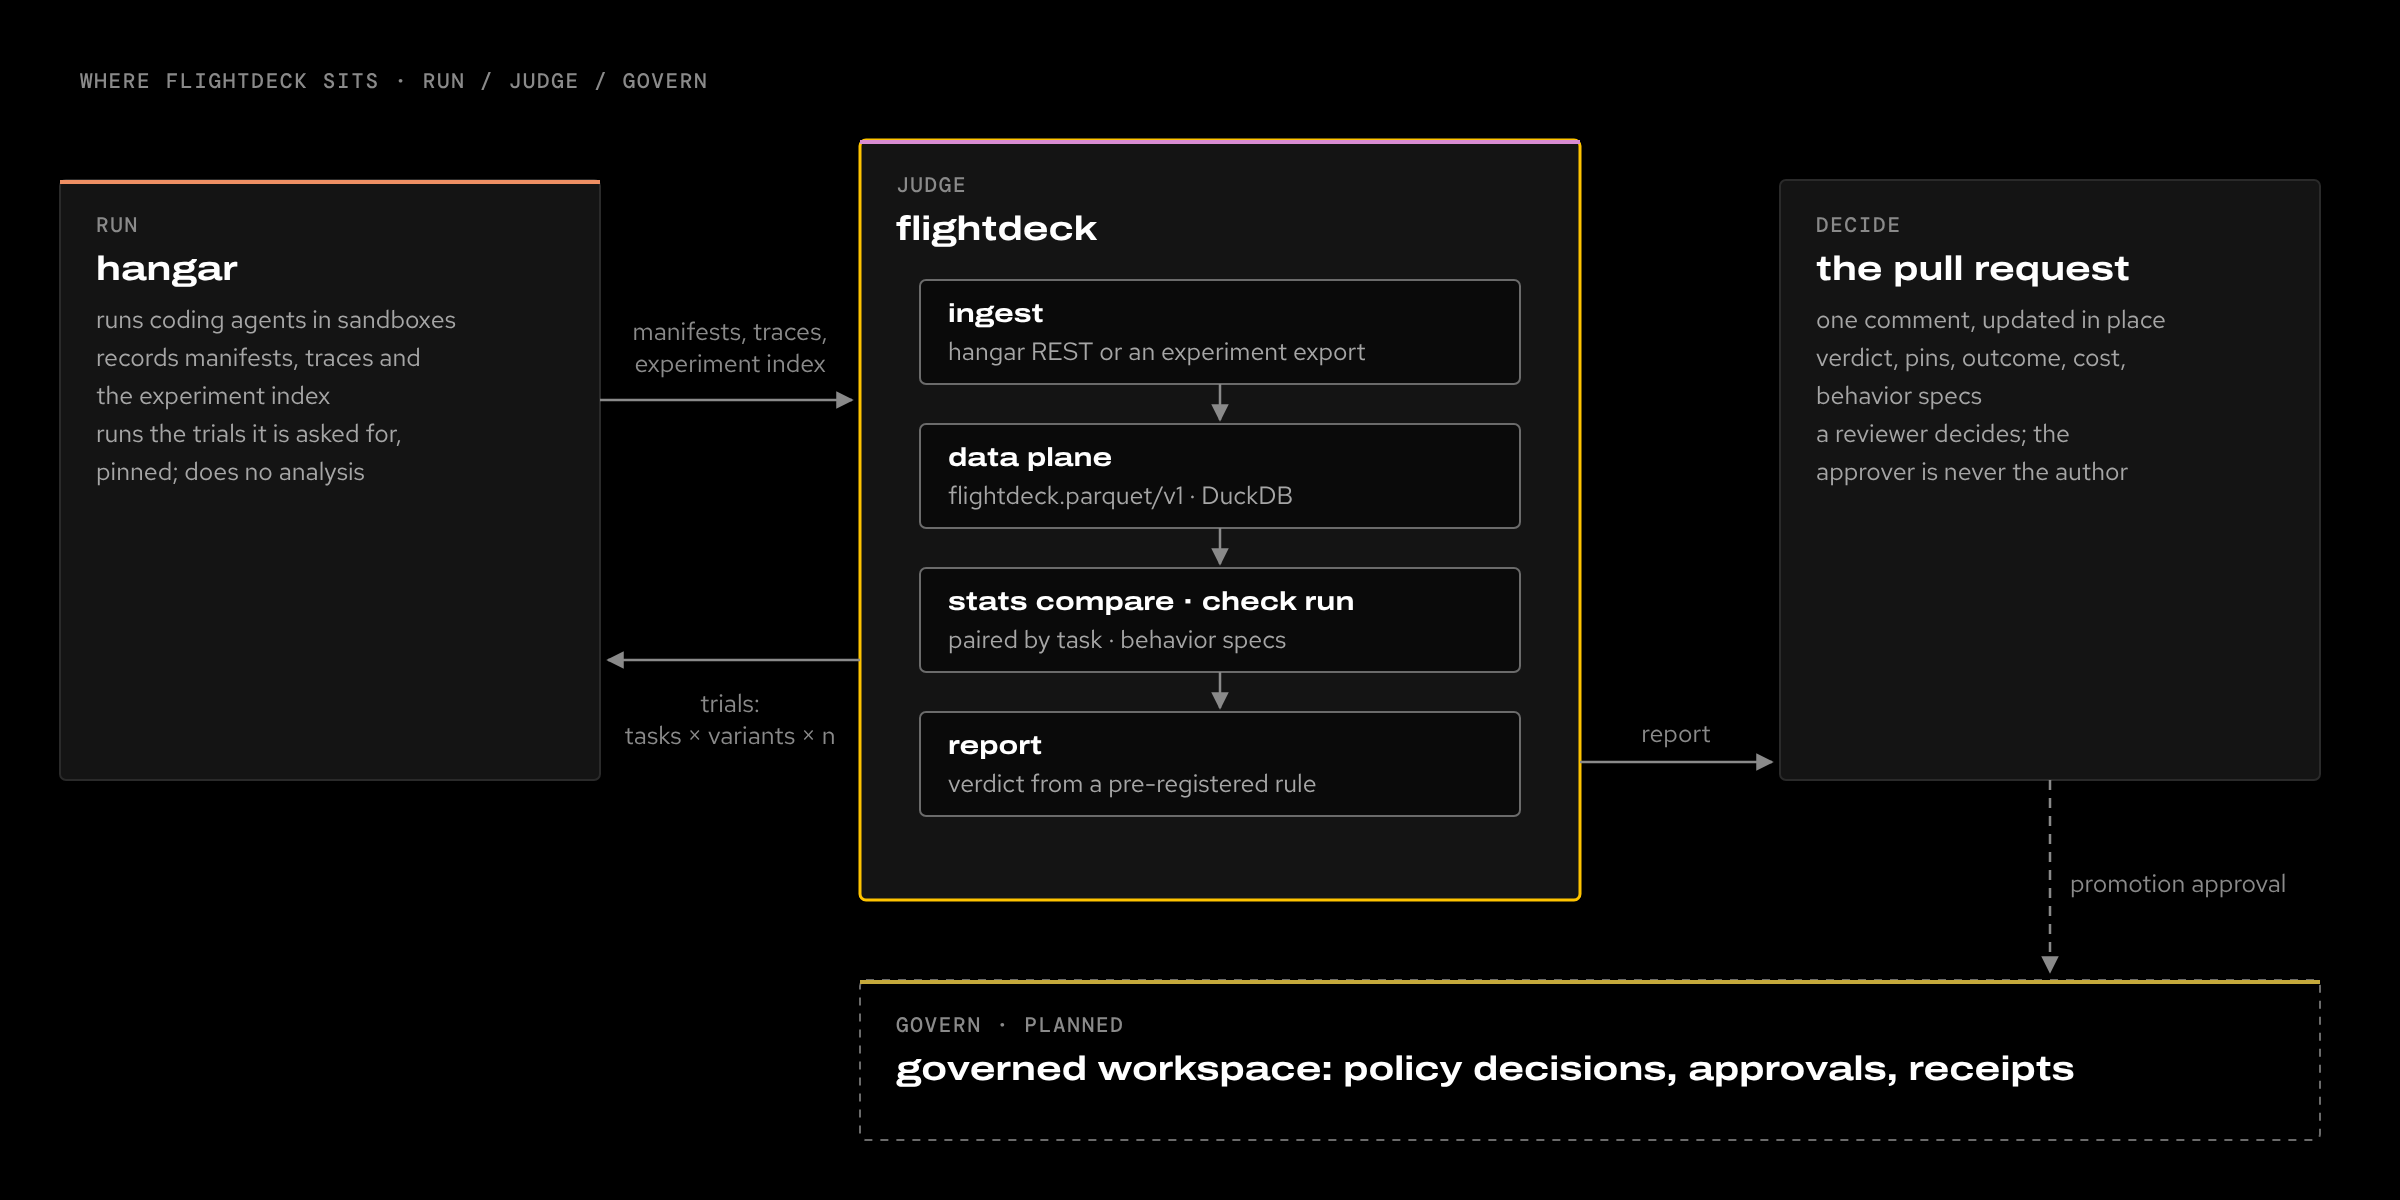
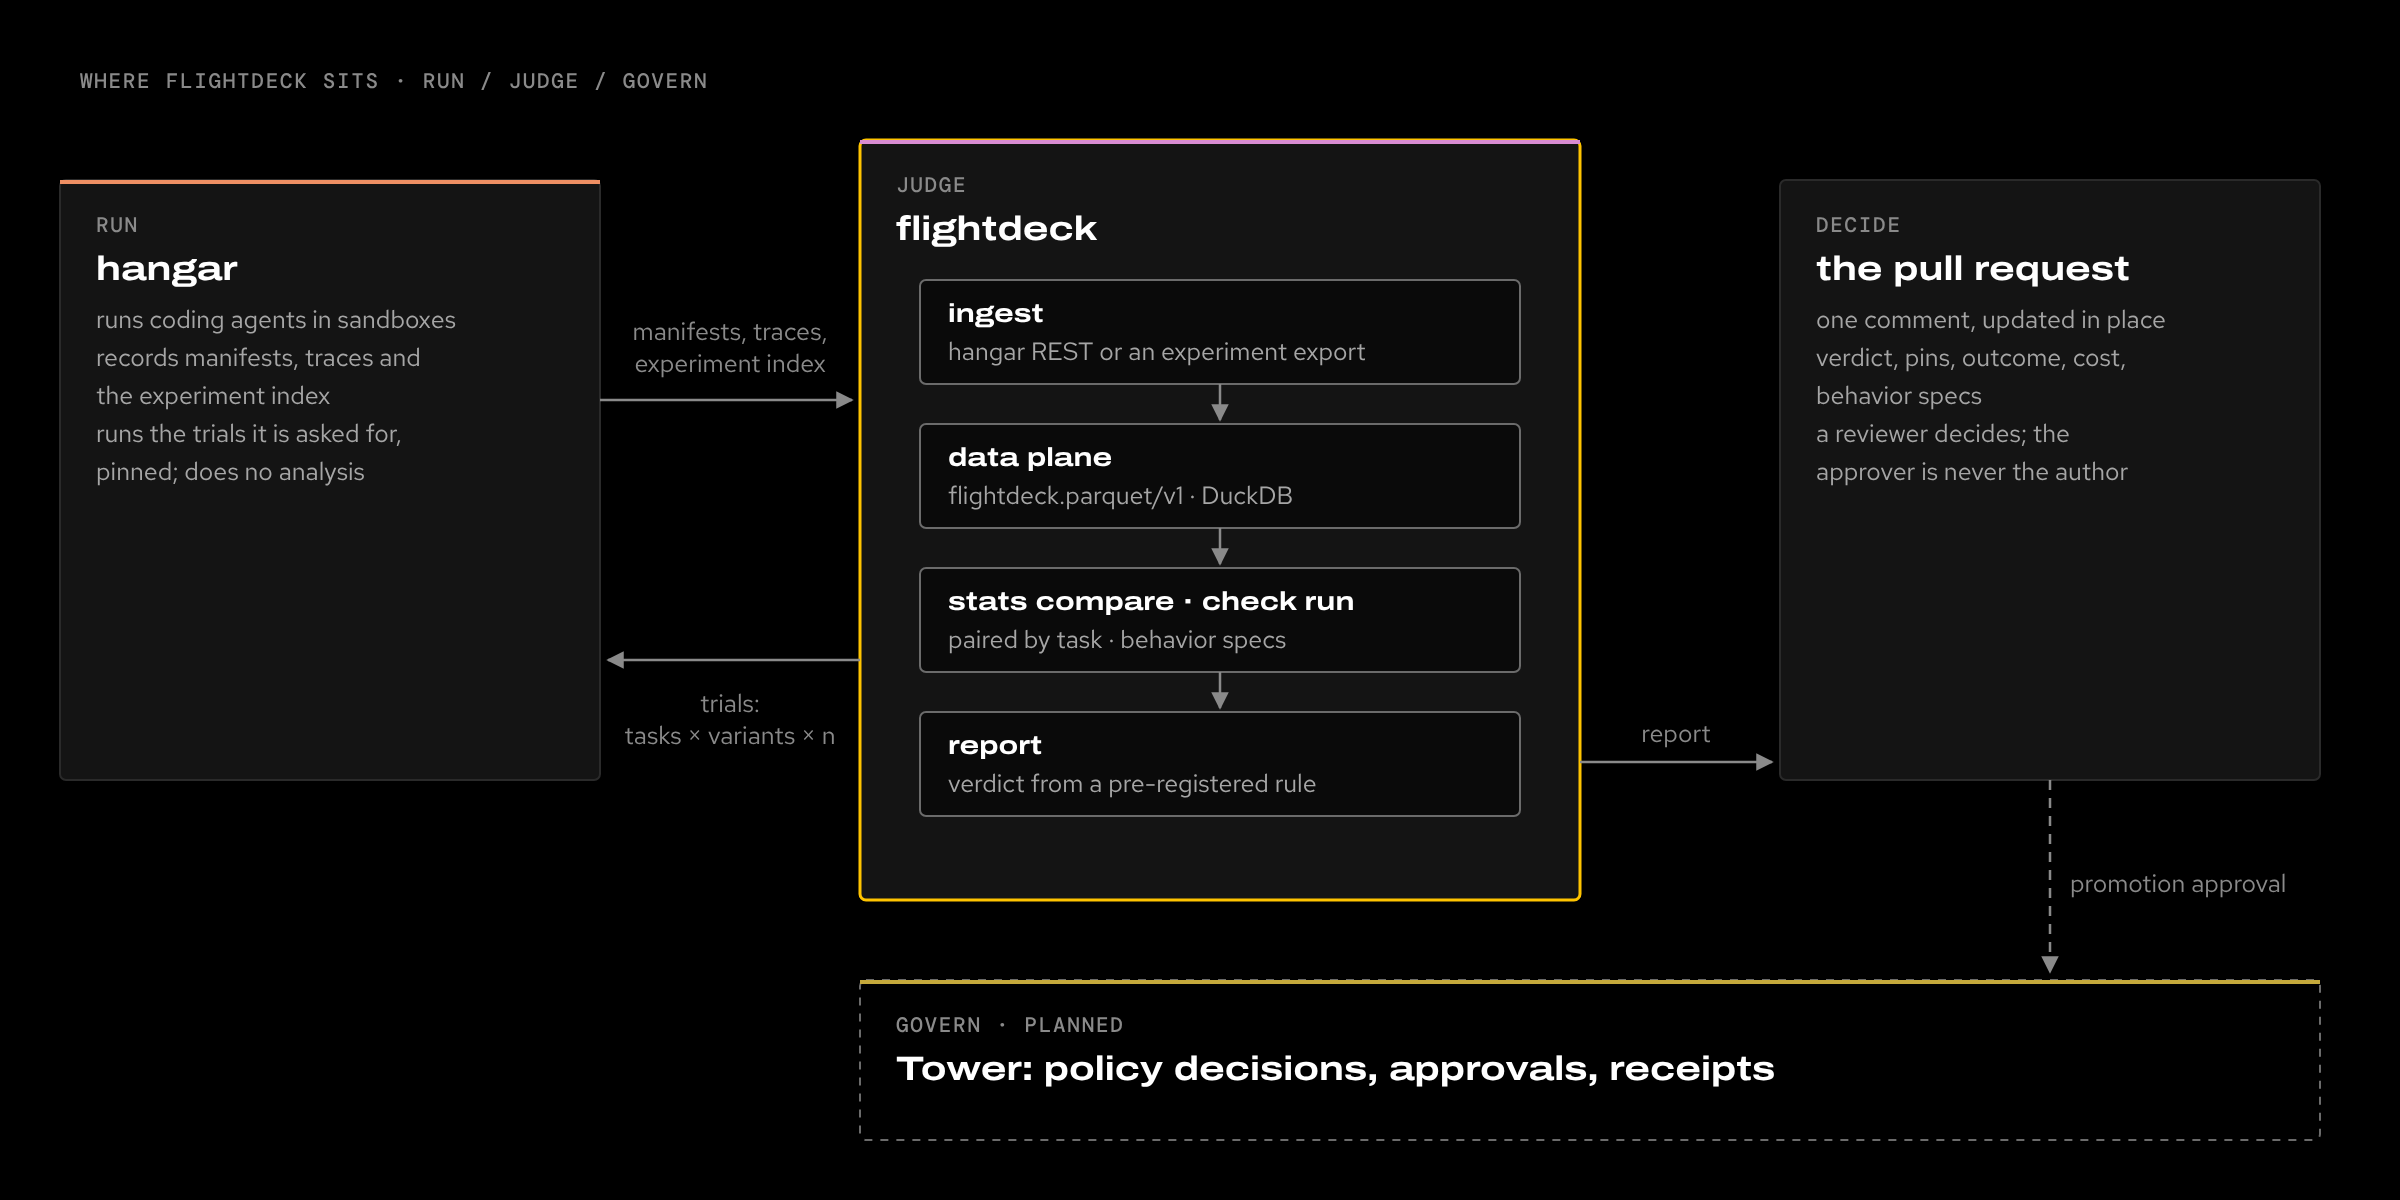
docs: call the governing product Tower, not the governed workspace
Decision 5 (Sean-Koval/tower ADR 0017) names the product Tower. Update the
custody docstring, holdouts page, README alt text and the suite diagram
(re-rendered with docs/assets/build.py). ADRs stay as written.

Claude-Session: https://claude.ai/code/session_01SFiwxn8Z8TnmrM2NBq6P9N

Changed region(s): [[0.375, 0.8633, 0.875, 0.925]]

diff --git a/docs/assets/build.py b/docs/assets/build.py
@@ -261,7 +261,7 @@ def diagram() -> str:
     edge("M300 200 H426", "manifests, traces,|experiment index", 365, 170)
     edge("M430 330 H304", "trials:|tasks × variants × n", 365, 356)
     edge("M790 381 H886", "report", 838, 371)
-    box(430, 490, 730, 80, "GOVERN · PLANNED", "governed workspace: policy decisions, approvals, receipts", (),
+    box(430, 490, 730, 80, "GOVERN · PLANNED", "Tower: policy decisions, approvals, receipts", (),
         "ws", "plan")
     edge("M1025 390 V486", "promotion approval", 1035, 446, "plan", "start")
     defs = (f'<defs><marker id="fd-arrow" viewBox="0 0 10 10" refX="9" refY="5" markerWidth="7" markerHeight="7" '

diff --git a/src/flightdeck/tasks/custody.py b/src/flightdeck/tasks/custody.py
@@ -1,6 +1,6 @@
 """`flightdeck holdout`: sealed holdout custody (docs/holdouts.md, ADR 0006).
 
-The governed workspace's practice, ported: a manifest lists every sealed file with its sha256 and scoring refuses a
+Tower's practice, ported: a manifest lists every sealed file with its sha256 and scoring refuses a
 file whose hash changed (its `aw.rules_report.check_manifest`); independent writers work from a brief without reading
 the repository (`server/evals/briefs/blind_v*_writer_*.txt`); a sealed set is scored once, on an approver's go-ahead.
 Everything lives under one holdouts directory of the private data repository: `manifest.json`, `briefs/` and

diff --git a/docs/holdouts.md b/docs/holdouts.md
@@ -3,7 +3,7 @@
 A sealed holdout is a set of tasks that nobody tuning a harness has seen, scored **once**, when a search winner or a
 promotion needs one honest number. Custody is what keeps it unseen: hashes that refuse an edited file, canaries that
 detect a leak, writers who never read the code they're testing, and an approver who isn't the candidate's author. The
-rules are [ADR 0006](decisions/0006-holdout-custody.md); the discipline is the governed workspace's, ported. Code:
+rules are [ADR 0006](decisions/0006-holdout-custody.md); the discipline is Tower's (formerly the governed workspace), ported. Code:
 `src/flightdeck/tasks/custody.py`, `flightdeck holdout ...`.
 
 ## Where things live
@@ -34,7 +34,7 @@ holdouts/
 ## The cycle
 
 1. **Briefs.** `flightdeck holdout brief reg-2 --writers 2 --count 20 --family regression --mined-after 2026-10-01`
-   writes `briefs/reg-2_writer_{a,b}.txt` in the governed workspace's blind-writer shape: what the set is for, the
+   writes `briefs/reg-2_writer_{a,b}.txt` in Tower's blind-writer shape: what the set is for, the
    format, "do NOT read any file in this repository except what you create under `holdouts/incoming/<writer>/`",
    and a check before delivering. Give each brief to a writer (a person or an agent session in its own sandbox) who is
    not the author of any change the set will judge. Writers leave their tasks in `incoming/<writer>/`, uncommitted.

diff --git a/README.md b/README.md
@@ -32,7 +32,7 @@ The report, posted as one pull-request comment that is updated in place (rendere
 
 <picture>
   <source media="(prefers-color-scheme: light)" srcset="docs/assets/suite-light.png">
-  <img alt="Hangar runs agents and records manifests, traces and the experiment index; flightdeck ingests them into a Parquet data plane, compares variants and runs behavior specs, and posts a report to the pull request, where a reviewer decides; the governed workspace (planned) approves promotions" src="docs/assets/suite-dark.png">
+  <img alt="Hangar runs agents and records manifests, traces and the experiment index; flightdeck ingests them into a Parquet data plane, compares variants and runs behavior specs, and posts a report to the pull request, where a reviewer decides; Tower (planned) approves promotions" src="docs/assets/suite-dark.png">
 </picture>
 
 Flightdeck holds no sandbox code and no credentials ([ADR-0001](docs/decisions/0001-boundary-with-hangar.md)): it
